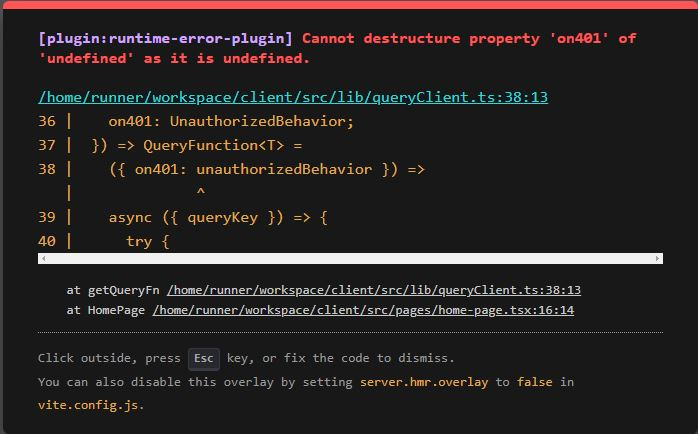
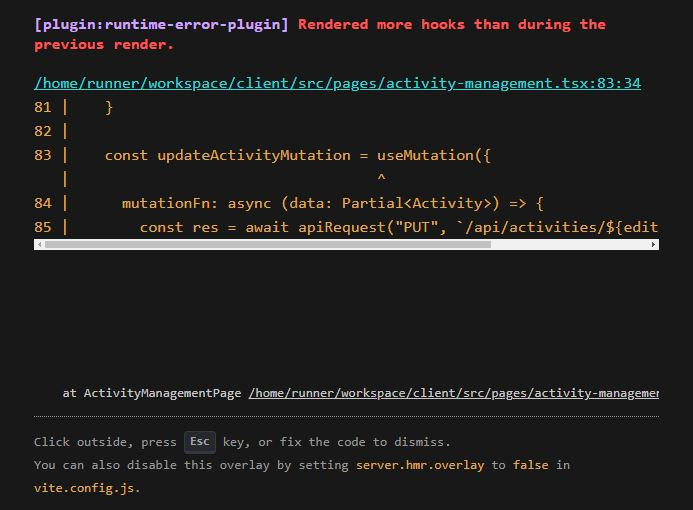
Refactor: Improve error handling and loading states in activity management page.
Replit-Commit-Author: Agent
Replit-Commit-Session-Id: ffa1ae58-c17a-461e-ac89-457a1b4e0f25
Replit-Commit-Screenshot-Url: https://storage.googleapis.com/screenshot-production-us-central1/a0341f86-dcd3-4fbd-8a10-9a1965e07b56/ff7d7ef0-064a-454b-8c3c-2df99e76d47b.jpg

Changed region(s): [[0.0, 0.0, 1.0, 1.0], [0.5455, 0.2995, 0.697, 0.3295]]

diff --git a/client/src/pages/activity-management.tsx b/client/src/pages/activity-management.tsx
@@ -16,6 +16,7 @@ import { ScrollArea } from "@/components/ui/scroll-area";
 import { useAuth } from "@/hooks/use-auth";
 
 export default function ActivityManagementPage() {
+  // All hooks at the top level
   const { user } = useAuth();
   const { toast } = useToast();
   const [editActivityOpen, setEditActivityOpen] = useState(false);
@@ -23,62 +24,9 @@ export default function ActivityManagementPage() {
   const [workoutVideos, setWorkoutVideos] = useState<Array<{ url: string; description: string }>>([]);
   const [editingWorkoutVideos, setEditingWorkoutVideos] = useState<Array<{ url: string; description: string }>>([]);
 
-  // Query activities with error handling
   const { data: activities, isLoading, error } = useQuery<Activity[]>({
-    queryKey: ["/api/activities"],
-    onError: (error: Error) => {
-      console.error('Error fetching activities:', error);
-      toast({
-        title: "Error",
-        description: "Failed to load activities. Please try again.",
-        variant: "destructive"
-      });
-    }
+    queryKey: ["/api/activities"]
   });
-
-  // Show loading state
-  if (isLoading) {
-    return (
-      <div className="flex items-center justify-center min-h-screen">
-        <Loader2 className="h-8 w-8 animate-spin" />
-        <span className="ml-2">Loading activities...</span>
-      </div>
-    );
-  }
-
-  // Show error state
-  if (error) {
-    return (
-      <div className="flex items-center justify-center min-h-screen">
-        <Card className="w-full max-w-md">
-          <CardContent className="p-6">
-            <h2 className="text-xl font-bold text-red-500 mb-2">Error Loading Activities</h2>
-            <p className="text-gray-600">{error.message}</p>
-            <Button 
-              className="mt-4"
-              onClick={() => queryClient.invalidateQueries({ queryKey: ["/api/activities"] })}
-            >
-              Retry
-            </Button>
-          </CardContent>
-        </Card>
-      </div>
-    );
-  }
-
-  // Show unauthorized state
-  if (!user?.isAdmin) {
-    return (
-      <div className="flex items-center justify-center min-h-screen">
-        <Card className="w-full max-w-md">
-          <CardContent className="p-6">
-            <h2 className="text-xl font-bold text-red-500 mb-2">Unauthorized</h2>
-            <p className="text-gray-600">You do not have permission to manage activities.</p>
-          </CardContent>
-        </Card>
-      </div>
-    );
-  }
 
   const updateActivityMutation = useMutation({
     mutationFn: async (data: Partial<Activity>) => {
@@ -125,6 +73,7 @@ export default function ActivityManagementPage() {
     },
   });
 
+  // Handler functions
   const handleEditActivity = (activity: Activity) => {
     setEditingActivity(activity);
     setEditingWorkoutVideos(activity.workoutVideos || []);
@@ -137,22 +86,53 @@ export default function ActivityManagementPage() {
     }
   };
 
-  const handleAddWorkoutVideo = () => {
-    setWorkoutVideos([...workoutVideos, { url: '', description: '' }]);
-  };
+  // Render loading state
+  if (isLoading) {
+    return (
+      <div className="flex items-center justify-center min-h-screen">
+        <Loader2 className="h-8 w-8 animate-spin" />
+        <span className="ml-2">Loading activities...</span>
+      </div>
+    );
+  }
 
-  const handleEditWorkoutVideo = (index: number, field: 'url' | 'description', value: string) => {
-    const updatedVideos = [...editingWorkoutVideos];
-    updatedVideos[index][field] = value;
-    setEditingWorkoutVideos(updatedVideos);
-  };
+  // Render error state
+  if (error) {
+    return (
+      <div className="flex items-center justify-center min-h-screen">
+        <Card className="w-full max-w-md">
+          <CardContent className="p-6">
+            <h2 className="text-xl font-bold text-red-500 mb-2">Error Loading Activities</h2>
+            <p className="text-gray-600">{error instanceof Error ? error.message : 'An error occurred'}</p>
+            <Button 
+              className="mt-4"
+              onClick={() => queryClient.invalidateQueries({ queryKey: ["/api/activities"] })}
+            >
+              Retry
+            </Button>
+          </CardContent>
+        </Card>
+      </div>
+    );
+  }
 
-  const handleRemoveEditWorkoutVideo = (index: number) => {
-    setEditingWorkoutVideos(editingWorkoutVideos.filter((_, i) => i !== index));
-  };
+  // Render unauthorized state
+  if (!user?.isAdmin) {
+    return (
+      <div className="flex items-center justify-center min-h-screen">
+        <Card className="w-full max-w-md">
+          <CardContent className="p-6">
+            <h2 className="text-xl font-bold text-red-500 mb-2">Unauthorized</h2>
+            <p className="text-gray-600">You do not have permission to manage activities.</p>
+          </CardContent>
+        </Card>
+      </div>
+    );
+  }
 
+  // Main render
   return (
-    <div className="h-screen w-full bg-background/95 p-6 shadow-lg animate-in slide-in-from-right px-6"> {/* Added px-6 here */}
+    <div className="h-screen w-full bg-background/95 p-6 shadow-lg animate-in slide-in-from-right">
       <div className="flex items-center justify-between mb-6">
         <h1 className="text-2xl font-bold">Activity Management</h1>
         <Button variant="outline" onClick={() => window.history.back()}>
@@ -201,7 +181,6 @@ export default function ActivityManagementPage() {
               });
             }
           }} className="space-y-4">
-            {/* Form fields */}
             <div className="grid grid-cols-2 gap-4">
               <div>
                 <Label htmlFor="week">Week</Label>
@@ -310,7 +289,6 @@ export default function ActivityManagementPage() {
                 };
                 updateActivityMutation.mutate(data);
               }} className="space-y-4">
-                {/* Edit form fields */}
                 <div className="grid grid-cols-2 gap-4">
                   <div>
                     <Label htmlFor="week">Week</Label>
